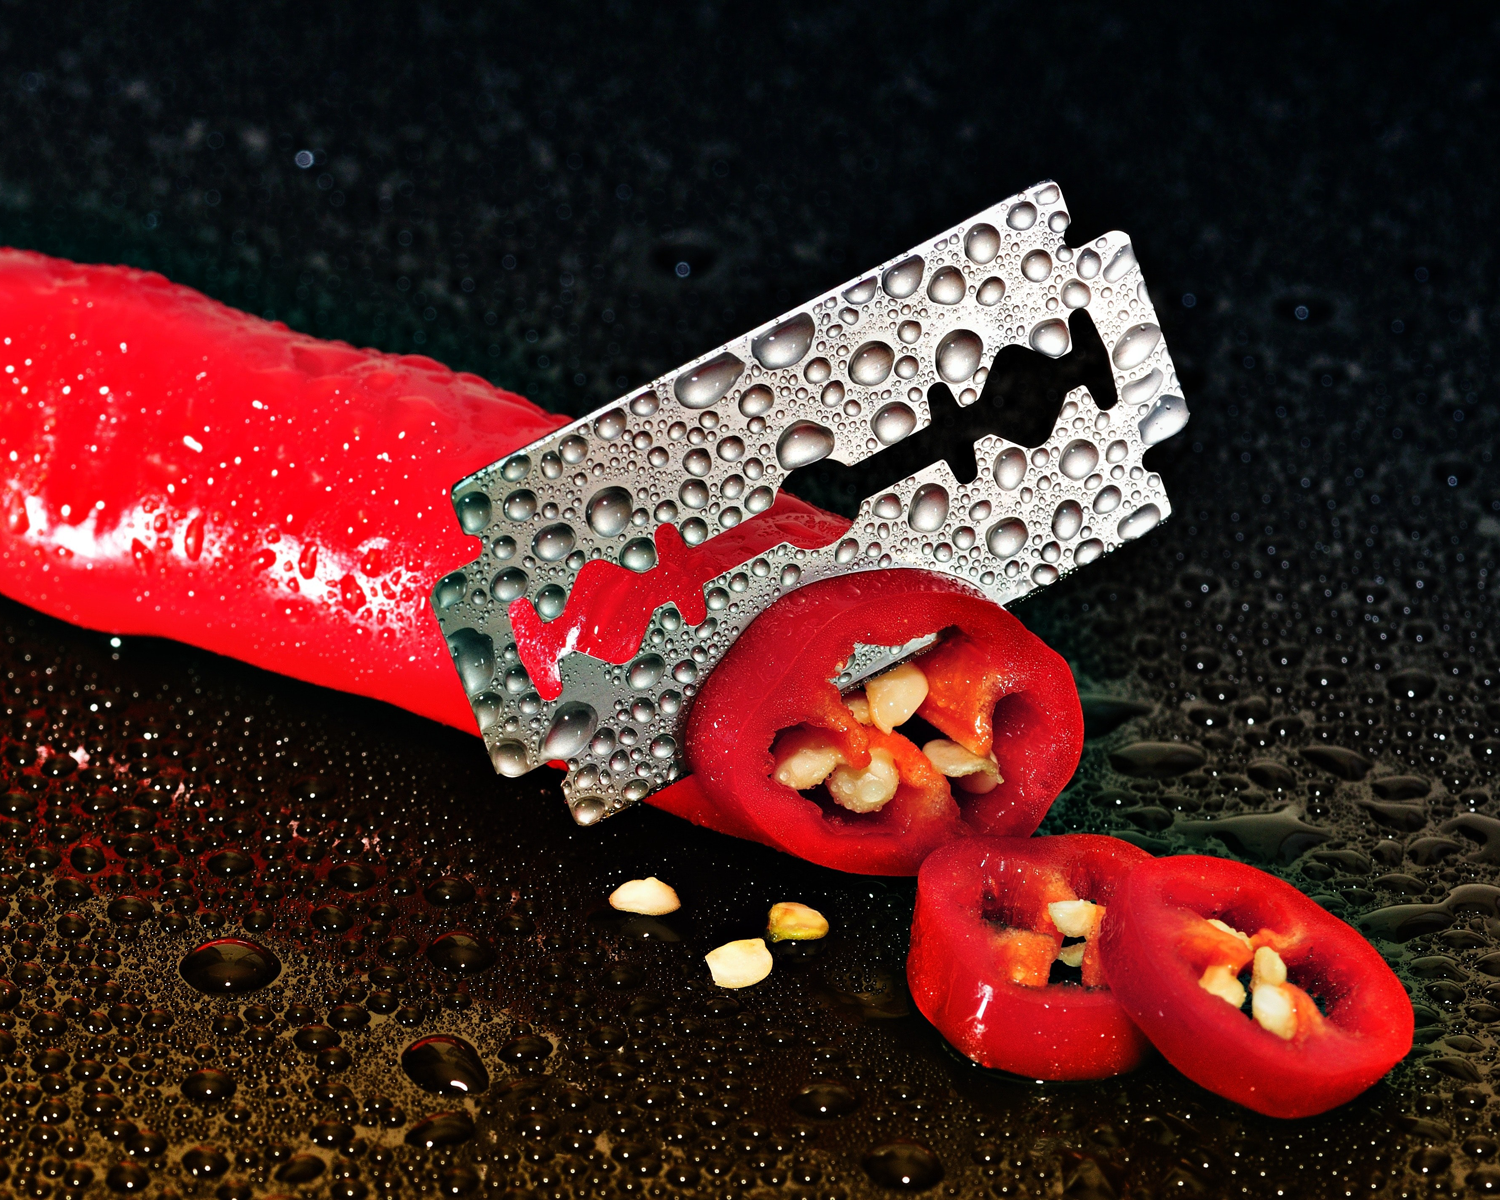
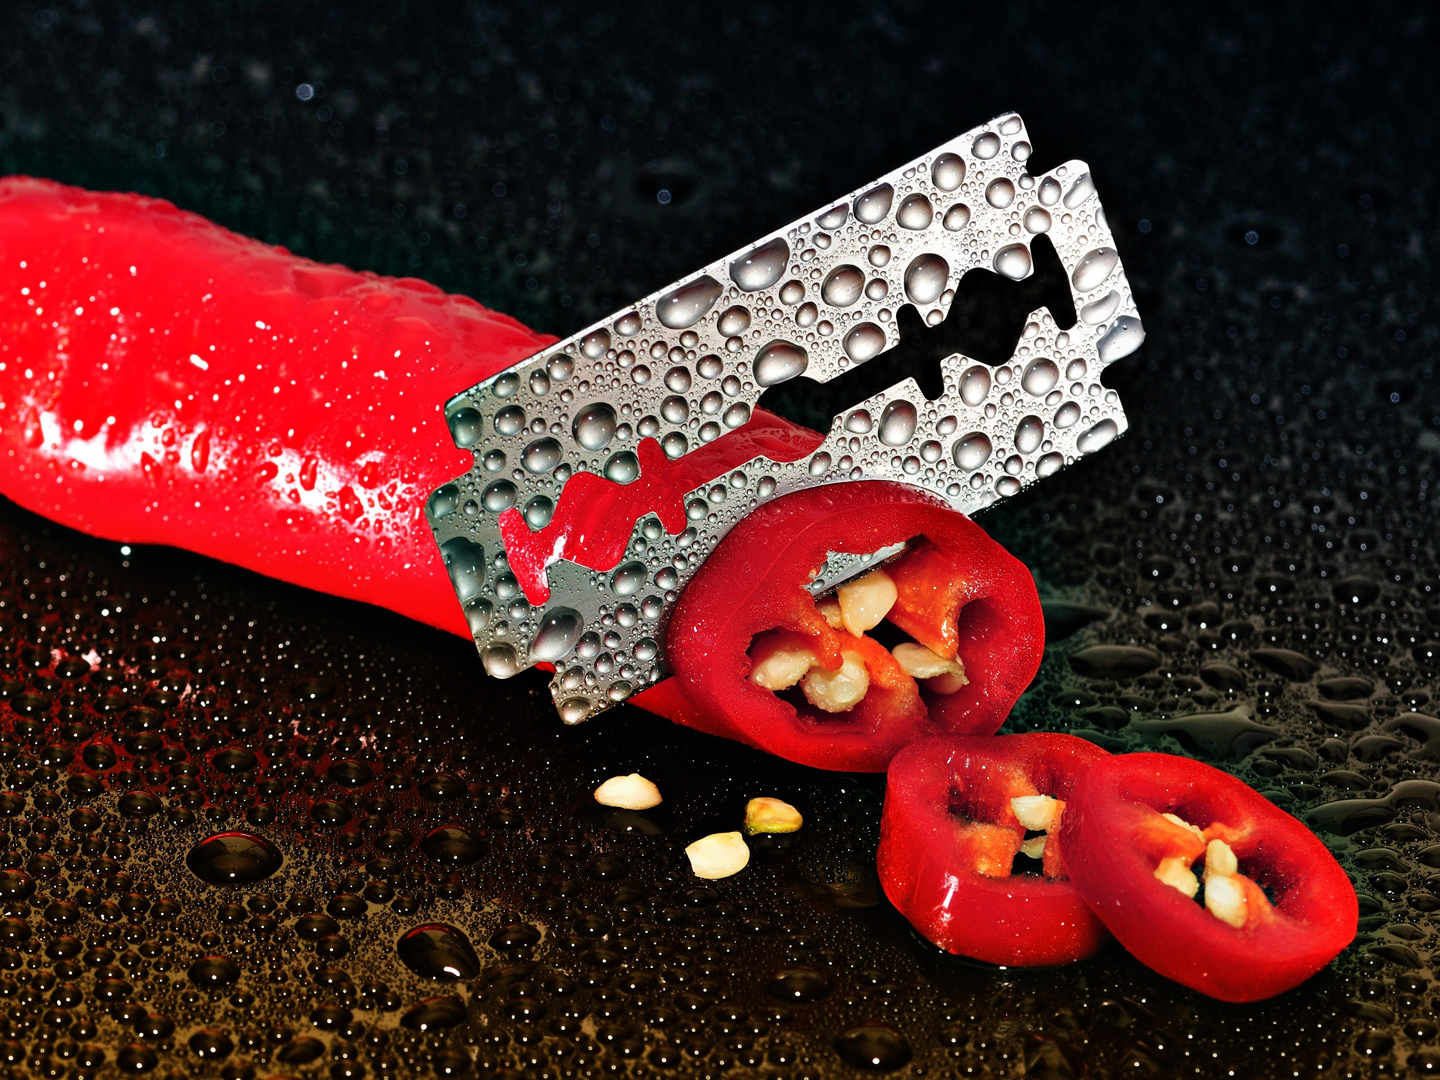
New 	- 	Started working on Fixel EdgeHancer 3 page. Fixed 	- 	B Known Issues 	-	C To Do 	- 	Enable MathJax (See documentation). Remarks 	- 	E

diff --git a/products/edgehancer3/index.html b/products/edgehancer3/index.html
@@ -22,7 +22,7 @@ social:
 			<div class="highlight-box text-center" style="width: 100%;" id="edgehancer-overview">
 				<h1 class="home-title" property="name">Fixel EdgeHancer 3</h1>
 				<p class="product-subtitle">Edge Enhancer Filter</p>
-				<img class="img-rounded img-responsive img-shadow" width="750" height="600" src="images/PresentationImage.png" alt="edgehancer presentation image">
+				<img class="img-rounded img-responsive img-shadow" width="720" height="540" src="images/PresentationImage.png" alt="Fixel EdgeHancer Presentation Image">
 			</div>
 			
 			<p class="author-caption">BY FIXEL ALGORITHMS</p>
